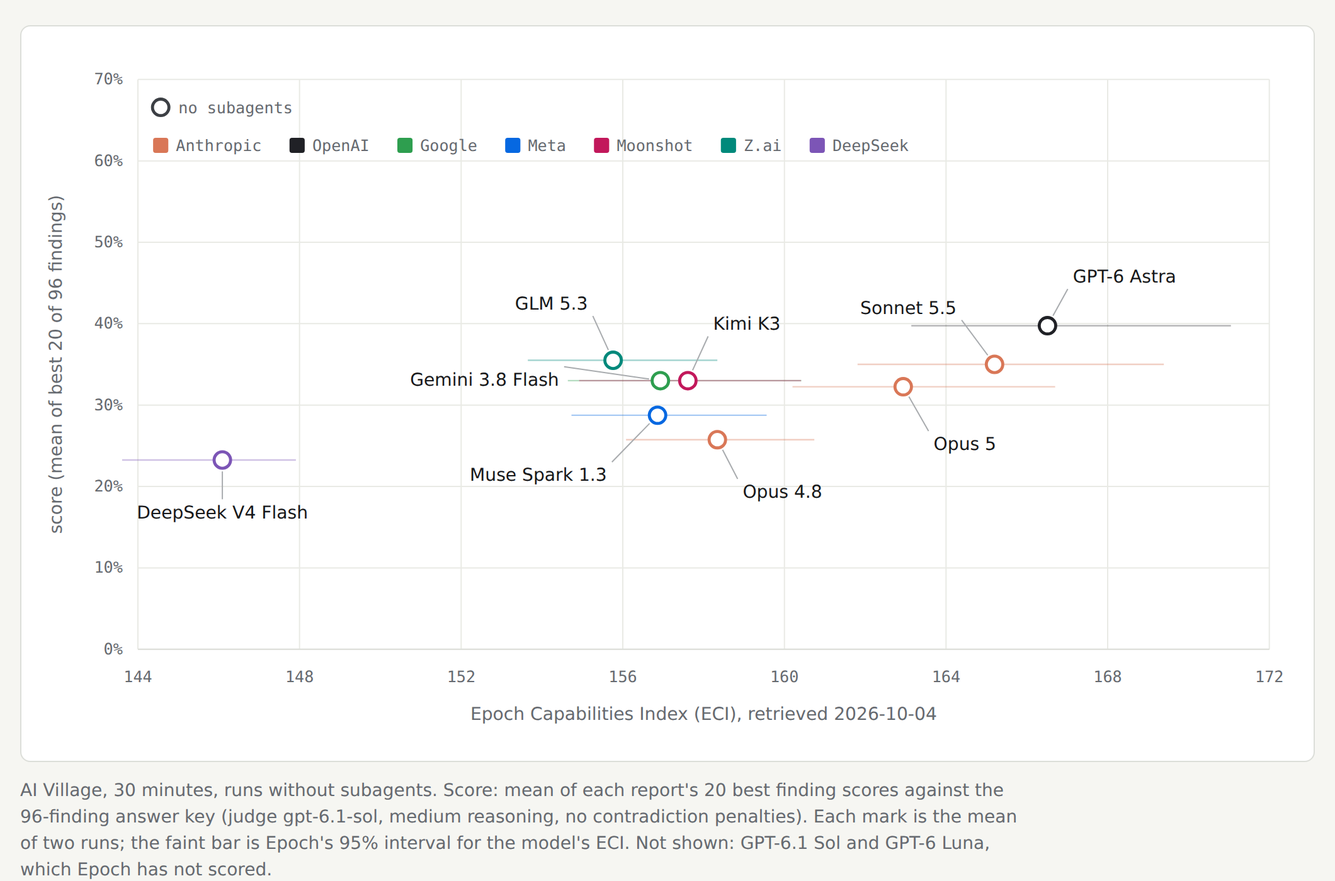
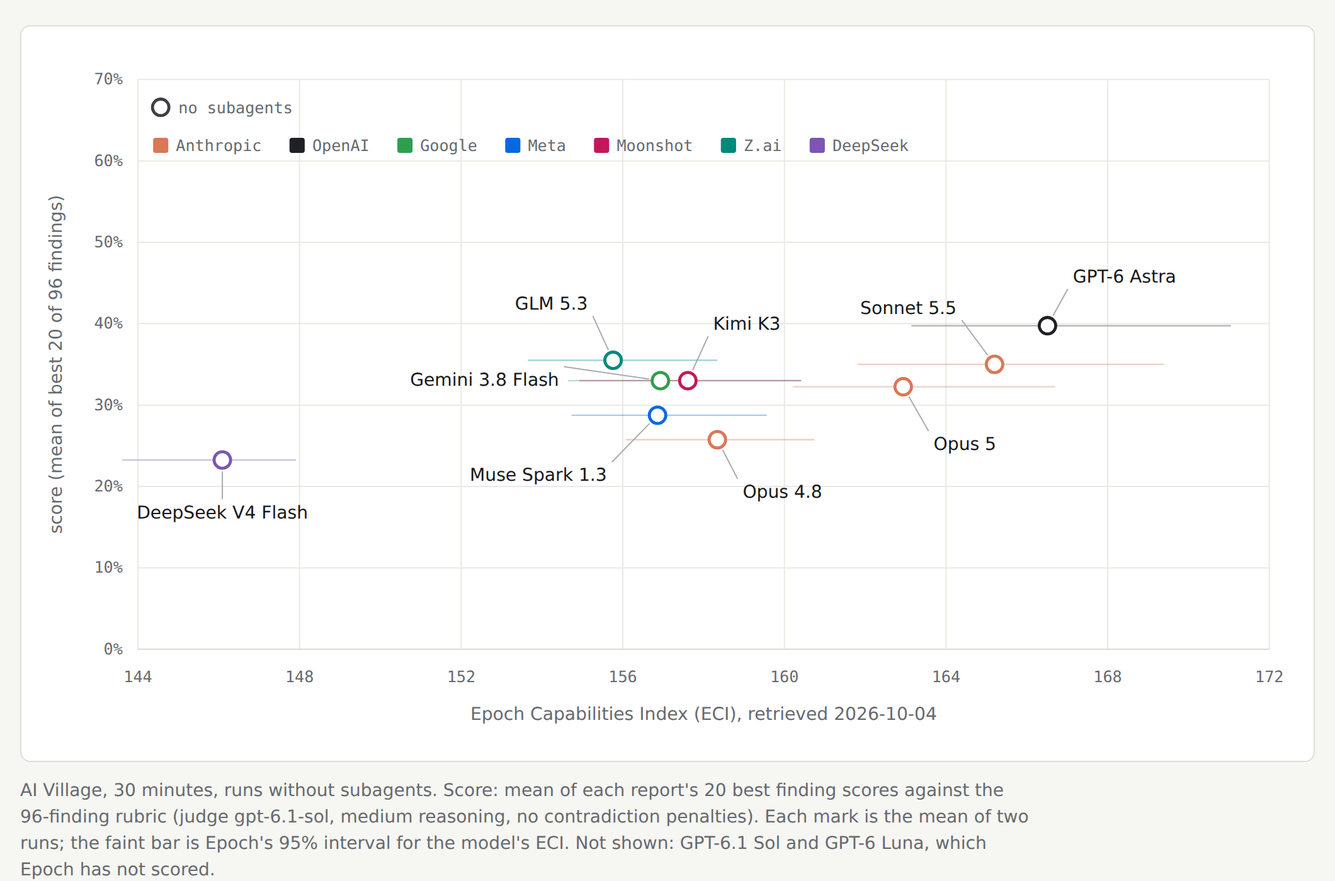
AI Village: call the 96 findings the rubric, as in the write-up

Changed region(s): [[0.0, 0.9214, 0.7783, 1.0]]

diff --git a/benchmark/incidents/aivillage/figures/score_vs_cost.html b/benchmark/incidents/aivillage/figures/score_vs_cost.html
@@ -27,7 +27,7 @@
 <div class="controls"><span>Drag model names to move them.</span><button id="reset" type="button">Reset labels</button><button id="copy" type="button">Copy label positions</button><span id="status" role="status"></span></div>
 <details><summary>Values</summary><div class="tablewrap"><table><thead><tr id="head"></tr></thead><tbody id="rows"></tbody></table></div></details>
 </main>
-<script type="application/json" id="data">{"title": "AI Village Score vs Cost", "aria": "AI Village answer-key score against cost per run, with and without subagents", "caption": "AI Village, 30 minutes. Score: mean of each report's 20 best finding scores against the 96-finding answer key (judge gpt-6.1-sol, medium reasoning, no contradiction penalties). Cost per run at list prices, subagents included. Each mark is the mean of two runs; dashed lines join a model's runs without and with subagents.", "y_label": "score (mean of best 20 of 96 findings)", "x_axis": {"log": true, "min": 0.1, "max": 100, "ticks": [0.1, 0.2, 0.5, 1, 2, 5, 10, 20, 50, 100], "prefix": "$", "format": "${:.2f}", "label": "estimated cost per run, USD at list price (log scale)"}, "models": [{"name": "Muse Spark 1.3", "color": "#0668e1", "points": {"false": {"x": 11.638349999999999, "score": 0.2875, "n": 2, "title": "Muse Spark 1.3, no subagents: $11.64 per run, score 28.7% (mean of 2 runs)"}}, "label": {"sub": "false", "dx": 18, "dy": 4}}, {"name": "Opus 5", "color": "#d97757", "points": {"false": {"x": 11.418199999999999, "score": 0.3225, "n": 2, "title": "Opus 5, no subagents: $11.42 per run, score 32.2% (mean of 2 runs)"}, "true": {"x": 21.0646, "score": 0.45499999999999996, "n": 2, "title": "Opus 5, subagents: $21.06 per run, score 45.5% (mean of 2 runs)"}}, "label": {"sub": "true", "dx": 34, "dy": 34}}, {"name": "Gemini 3.8 Flash", "color": "#2e9e4f", "points": {"false": {"x": 2.09445, "score": 0.33, "n": 2, "title": "Gemini 3.8 Flash, no subagents: $2.09 per run, score 33.0% (mean of 2 runs)"}}, "label": {"sub": "false", "dx": -50, "dy": 54}}, {"name": "GPT-6 Astra", "color": "#202126", "points": {"false": {"x": 13.70735, "score": 0.39749999999999996, "n": 2, "title": "GPT-6 Astra, no subagents: $13.71 per run, score 39.8% (mean of 2 runs)"}, "true": {"x": 58.2787, "score": 0.5675, "n": 2, "title": "GPT-6 Astra, subagents: $58.28 per run, score 56.8% (mean of 2 runs)"}}, "label": {"sub": "true", "dx": -10, "dy": -34}}, {"name": "Kimi K3", "color": "#c2185b", "points": {"false": {"x": 8.0264, "score": 0.32999999999999996, "n": 2, "title": "Kimi K3, no subagents: $8.03 per run, score 33.0% (mean of 2 runs)"}}, "label": {"sub": "false", "dx": -40, "dy": 50}}, {"name": "GPT-6.1 Sol", "color": "#202126", "points": {"false": {"x": 1.8433, "score": 0.395, "n": 2, "title": "GPT-6.1 Sol, no subagents: $1.84 per run, score 39.5% (mean of 2 runs)"}, "true": {"x": 6.542300000000001, "score": 0.5475, "n": 2, "title": "GPT-6.1 Sol, subagents: $6.54 per run, score 54.8% (mean of 2 runs)"}}, "label": {"sub": "true", "dx": -16, "dy": -6}}, {"name": "Opus 4.8", "color": "#d97757", "points": {"false": {"x": 7.9926, "score": 0.2575, "n": 2, "title": "Opus 4.8, no subagents: $7.99 per run, score 25.8% (mean of 2 runs)"}, "true": {"x": 24.7992, "score": 0.1825, "n": 2, "title": "Opus 4.8, subagents: $24.80 per run, score 18.2% (mean of 2 runs)"}}, "label": {"sub": "false", "dx": 0, "dy": 46}}, {"name": "GLM 5.3", "color": "#00897b", "points": {"false": {"x": 4.40515, "score": 0.355, "n": 2, "title": "GLM 5.3, no subagents: $4.41 per run, score 35.5% (mean of 2 runs)"}}, "label": {"sub": "false", "dx": -24, "dy": -46}}, {"name": "DeepSeek V4 Flash", "color": "#7c55b6", "points": {"false": {"x": 0.8161499999999999, "score": 0.2325, "n": 2, "title": "DeepSeek V4 Flash, no subagents: $0.82 per run, score 23.2% (mean of 2 runs)"}}, "label": {"sub": "false", "dx": 0, "dy": 46}}, {"name": "GPT-6 Luna", "color": "#202126", "points": {"false": {"x": 0.14415, "score": 0.255, "n": 2, "title": "GPT-6 Luna, no subagents: $0.14 per run, score 25.5% (mean of 2 runs)"}, "true": {"x": 0.36805, "score": 0.33499999999999996, "n": 2, "title": "GPT-6 Luna, subagents: $0.37 per run, score 33.5% (mean of 2 runs)"}}, "label": {"sub": "false", "dx": 0, "dy": 46}}, {"name": "Sonnet 5.5", "color": "#d97757", "points": {"false": {"x": 5.0225, "score": 0.35, "n": 2, "title": "Sonnet 5.5, no subagents: $5.02 per run, score 35.0% (mean of 2 runs)"}, "true": {"x": 12.36695, "score": 0.4625, "n": 2, "title": "Sonnet 5.5, subagents: $12.37 per run, score 46.2% (mean of 2 runs)"}}, "label": {"sub": "true", "dx": 30, "dy": -30}}], "vendors": [{"name": "Anthropic", "color": "#d97757"}, {"name": "OpenAI", "color": "#202126"}, {"name": "Google", "color": "#2e9e4f"}, {"name": "Meta", "color": "#0668e1"}, {"name": "Moonshot", "color": "#c2185b"}, {"name": "Z.ai", "color": "#00897b"}, {"name": "DeepSeek", "color": "#7c55b6"}], "frontier": [{"x": 0.14415, "score": 0.255, "n": 2, "title": "GPT-6 Luna, no subagents: $0.14 per run, score 25.5% (mean of 2 runs)"}, {"x": 0.36805, "score": 0.33499999999999996, "n": 2, "title": "GPT-6 Luna, subagents: $0.37 per run, score 33.5% (mean of 2 runs)"}, {"x": 1.8433, "score": 0.395, "n": 2, "title": "GPT-6.1 Sol, no subagents: $1.84 per run, score 39.5% (mean of 2 runs)"}, {"x": 6.542300000000001, "score": 0.5475, "n": 2, "title": "GPT-6.1 Sol, subagents: $6.54 per run, score 54.8% (mean of 2 runs)"}, {"x": 58.2787, "score": 0.5675, "n": 2, "title": "GPT-6 Astra, subagents: $58.28 per run, score 56.8% (mean of 2 runs)"}], "label_positions": {}, "labels_file": "score_vs_cost_labels.json", "label_storage_key": "aivillage-score_vs_cost-labels-v1", "table": {"head": ["Model", "Cost, no subagents", "Score, no subagents", "Cost, subagents", "Score, subagents"], "rows": [{"color": "#0668e1", "cells": ["Muse Spark 1.3", "$11.64", "28.7%", "\u2013", "\u2013"]}, {"color": "#d97757", "cells": ["Opus 5", "$11.42", "32.2%", "$21.06", "45.5%"]}, {"color": "#2e9e4f", "cells": ["Gemini 3.8 Flash", "$2.09", "33.0%", "\u2013", "\u2013"]}, {"color": "#202126", "cells": ["GPT-6 Astra", "$13.71", "39.8%", "$58.28", "56.8%"]}, {"color": "#c2185b", "cells": ["Kimi K3", "$8.03", "33.0%", "\u2013", "\u2013"]}, {"color": "#202126", "cells": ["GPT-6.1 Sol", "$1.84", "39.5%", "$6.54", "54.8%"]}, {"color": "#d97757", "cells": ["Opus 4.8", "$7.99", "25.8%", "$24.80", "18.2%"]}, {"color": "#00897b", "cells": ["GLM 5.3", "$4.41", "35.5%", "\u2013", "\u2013"]}, {"color": "#7c55b6", "cells": ["DeepSeek V4 Flash", "$0.82", "23.2%", "\u2013", "\u2013"]}, {"color": "#202126", "cells": ["GPT-6 Luna", "$0.14", "25.5%", "$0.37", "33.5%"]}, {"color": "#d97757", "cells": ["Sonnet 5.5", "$5.02", "35.0%", "$12.37", "46.2%"]}]}}</script>
+<script type="application/json" id="data">{"title": "AI Village Score vs Cost", "aria": "AI Village score against cost per run, with and without subagents", "caption": "AI Village, 30 minutes. Score: mean of each report's 20 best finding scores against the 96-finding rubric (judge gpt-6.1-sol, medium reasoning, no contradiction penalties). Cost per run at list prices, subagents included. Each mark is the mean of two runs; dashed lines join a model's runs without and with subagents.", "y_label": "score (mean of best 20 of 96 findings)", "x_axis": {"log": true, "min": 0.1, "max": 100, "ticks": [0.1, 0.2, 0.5, 1, 2, 5, 10, 20, 50, 100], "prefix": "$", "format": "${:.2f}", "label": "estimated cost per run, USD at list price (log scale)"}, "models": [{"name": "Muse Spark 1.3", "color": "#0668e1", "points": {"false": {"x": 11.638349999999999, "score": 0.2875, "n": 2, "title": "Muse Spark 1.3, no subagents: $11.64 per run, score 28.7% (mean of 2 runs)"}}, "label": {"sub": "false", "dx": 18, "dy": 4}}, {"name": "Opus 5", "color": "#d97757", "points": {"false": {"x": 11.418199999999999, "score": 0.3225, "n": 2, "title": "Opus 5, no subagents: $11.42 per run, score 32.2% (mean of 2 runs)"}, "true": {"x": 21.0646, "score": 0.45499999999999996, "n": 2, "title": "Opus 5, subagents: $21.06 per run, score 45.5% (mean of 2 runs)"}}, "label": {"sub": "true", "dx": 34, "dy": 34}}, {"name": "Gemini 3.8 Flash", "color": "#2e9e4f", "points": {"false": {"x": 2.09445, "score": 0.33, "n": 2, "title": "Gemini 3.8 Flash, no subagents: $2.09 per run, score 33.0% (mean of 2 runs)"}}, "label": {"sub": "false", "dx": -50, "dy": 54}}, {"name": "GPT-6 Astra", "color": "#202126", "points": {"false": {"x": 13.70735, "score": 0.39749999999999996, "n": 2, "title": "GPT-6 Astra, no subagents: $13.71 per run, score 39.8% (mean of 2 runs)"}, "true": {"x": 58.2787, "score": 0.5675, "n": 2, "title": "GPT-6 Astra, subagents: $58.28 per run, score 56.8% (mean of 2 runs)"}}, "label": {"sub": "true", "dx": -10, "dy": -34}}, {"name": "Kimi K3", "color": "#c2185b", "points": {"false": {"x": 8.0264, "score": 0.32999999999999996, "n": 2, "title": "Kimi K3, no subagents: $8.03 per run, score 33.0% (mean of 2 runs)"}}, "label": {"sub": "false", "dx": -40, "dy": 50}}, {"name": "GPT-6.1 Sol", "color": "#202126", "points": {"false": {"x": 1.8433, "score": 0.395, "n": 2, "title": "GPT-6.1 Sol, no subagents: $1.84 per run, score 39.5% (mean of 2 runs)"}, "true": {"x": 6.542300000000001, "score": 0.5475, "n": 2, "title": "GPT-6.1 Sol, subagents: $6.54 per run, score 54.8% (mean of 2 runs)"}}, "label": {"sub": "true", "dx": -16, "dy": -6}}, {"name": "Opus 4.8", "color": "#d97757", "points": {"false": {"x": 7.9926, "score": 0.2575, "n": 2, "title": "Opus 4.8, no subagents: $7.99 per run, score 25.8% (mean of 2 runs)"}, "true": {"x": 24.7992, "score": 0.1825, "n": 2, "title": "Opus 4.8, subagents: $24.80 per run, score 18.2% (mean of 2 runs)"}}, "label": {"sub": "false", "dx": 0, "dy": 46}}, {"name": "GLM 5.3", "color": "#00897b", "points": {"false": {"x": 4.40515, "score": 0.355, "n": 2, "title": "GLM 5.3, no subagents: $4.41 per run, score 35.5% (mean of 2 runs)"}}, "label": {"sub": "false", "dx": -24, "dy": -46}}, {"name": "DeepSeek V4 Flash", "color": "#7c55b6", "points": {"false": {"x": 0.8161499999999999, "score": 0.2325, "n": 2, "title": "DeepSeek V4 Flash, no subagents: $0.82 per run, score 23.2% (mean of 2 runs)"}}, "label": {"sub": "false", "dx": 0, "dy": 46}}, {"name": "GPT-6 Luna", "color": "#202126", "points": {"false": {"x": 0.14415, "score": 0.255, "n": 2, "title": "GPT-6 Luna, no subagents: $0.14 per run, score 25.5% (mean of 2 runs)"}, "true": {"x": 0.36805, "score": 0.33499999999999996, "n": 2, "title": "GPT-6 Luna, subagents: $0.37 per run, score 33.5% (mean of 2 runs)"}}, "label": {"sub": "false", "dx": 0, "dy": 46}}, {"name": "Sonnet 5.5", "color": "#d97757", "points": {"false": {"x": 5.0225, "score": 0.35, "n": 2, "title": "Sonnet 5.5, no subagents: $5.02 per run, score 35.0% (mean of 2 runs)"}, "true": {"x": 12.36695, "score": 0.4625, "n": 2, "title": "Sonnet 5.5, subagents: $12.37 per run, score 46.2% (mean of 2 runs)"}}, "label": {"sub": "true", "dx": 30, "dy": -30}}], "vendors": [{"name": "Anthropic", "color": "#d97757"}, {"name": "OpenAI", "color": "#202126"}, {"name": "Google", "color": "#2e9e4f"}, {"name": "Meta", "color": "#0668e1"}, {"name": "Moonshot", "color": "#c2185b"}, {"name": "Z.ai", "color": "#00897b"}, {"name": "DeepSeek", "color": "#7c55b6"}], "frontier": [{"x": 0.14415, "score": 0.255, "n": 2, "title": "GPT-6 Luna, no subagents: $0.14 per run, score 25.5% (mean of 2 runs)"}, {"x": 0.36805, "score": 0.33499999999999996, "n": 2, "title": "GPT-6 Luna, subagents: $0.37 per run, score 33.5% (mean of 2 runs)"}, {"x": 1.8433, "score": 0.395, "n": 2, "title": "GPT-6.1 Sol, no subagents: $1.84 per run, score 39.5% (mean of 2 runs)"}, {"x": 6.542300000000001, "score": 0.5475, "n": 2, "title": "GPT-6.1 Sol, subagents: $6.54 per run, score 54.8% (mean of 2 runs)"}, {"x": 58.2787, "score": 0.5675, "n": 2, "title": "GPT-6 Astra, subagents: $58.28 per run, score 56.8% (mean of 2 runs)"}], "label_positions": {}, "labels_file": "score_vs_cost_labels.json", "label_storage_key": "aivillage-score_vs_cost-labels-v1", "table": {"head": ["Model", "Cost, no subagents", "Score, no subagents", "Cost, subagents", "Score, subagents"], "rows": [{"color": "#0668e1", "cells": ["Muse Spark 1.3", "$11.64", "28.7%", "\u2013", "\u2013"]}, {"color": "#d97757", "cells": ["Opus 5", "$11.42", "32.2%", "$21.06", "45.5%"]}, {"color": "#2e9e4f", "cells": ["Gemini 3.8 Flash", "$2.09", "33.0%", "\u2013", "\u2013"]}, {"color": "#202126", "cells": ["GPT-6 Astra", "$13.71", "39.8%", "$58.28", "56.8%"]}, {"color": "#c2185b", "cells": ["Kimi K3", "$8.03", "33.0%", "\u2013", "\u2013"]}, {"color": "#202126", "cells": ["GPT-6.1 Sol", "$1.84", "39.5%", "$6.54", "54.8%"]}, {"color": "#d97757", "cells": ["Opus 4.8", "$7.99", "25.8%", "$24.80", "18.2%"]}, {"color": "#00897b", "cells": ["GLM 5.3", "$4.41", "35.5%", "\u2013", "\u2013"]}, {"color": "#7c55b6", "cells": ["DeepSeek V4 Flash", "$0.82", "23.2%", "\u2013", "\u2013"]}, {"color": "#202126", "cells": ["GPT-6 Luna", "$0.14", "25.5%", "$0.37", "33.5%"]}, {"color": "#d97757", "cells": ["Sonnet 5.5", "$5.02", "35.0%", "$12.37", "46.2%"]}]}}</script>
 <script>
 const D=JSON.parse(document.getElementById('data').textContent), svg=document.getElementById('chart'), N='http://www.w3.org/2000/svg';
 document.getElementById('caption').textContent=D.caption;svg.setAttribute('aria-label',D.aria);

diff --git a/benchmark/incidents/aivillage/figures/score_vs_eci.html b/benchmark/incidents/aivillage/figures/score_vs_eci.html
@@ -27,7 +27,7 @@
 <div class="controls"><span>Drag model names to move them.</span><button id="reset" type="button">Reset labels</button><button id="copy" type="button">Copy label positions</button><span id="status" role="status"></span></div>
 <details><summary>Values</summary><div class="tablewrap"><table><thead><tr id="head"></tr></thead><tbody id="rows"></tbody></table></div></details>
 </main>
-<script type="application/json" id="data">{"title": "AI Village Score vs ECI", "aria": "AI Village answer-key score against Epoch Capabilities Index, runs without subagents", "caption": "AI Village, 30 minutes, runs without subagents. Score: mean of each report's 20 best finding scores against the 96-finding answer key (judge gpt-6.1-sol, medium reasoning, no contradiction penalties). Each mark is the mean of two runs; the faint bar is Epoch's 95% interval for the model's ECI. Not shown: GPT-6.1 Sol and GPT-6 Luna, which Epoch has not scored.", "y_label": "score (mean of best 20 of 96 findings)", "x_axis": {"log": false, "min": 144, "max": 172, "ticks": [144, 148, 152, 156, 160, 164, 168, 172], "prefix": "", "format": "{:.1f}", "label": "Epoch Capabilities Index (ECI), retrieved 2026-10-04"}, "models": [{"name": "Muse Spark 1.3", "color": "#0668e1", "points": {"false": {"x": 156.86, "ci": [154.73, 159.56], "score": 0.2875, "n": 2, "title": "Muse Spark 1.3: ECI 156.9 (154.7 to 159.6), score 28.7% (mean of 2 runs)"}}, "label": {"sub": "false", "dx": -40, "dy": 52}}, {"name": "Opus 5", "color": "#d97757", "points": {"false": {"x": 162.94, "ci": [160.2, 166.7], "score": 0.3225, "n": 2, "title": "Opus 5: ECI 162.9 (160.2 to 166.7), score 32.2% (mean of 2 runs)"}}, "label": {"sub": "false", "dx": 24, "dy": 50}}, {"name": "Gemini 3.8 Flash", "color": "#2e9e4f", "points": {"false": {"x": 156.93, "ci": [154.64, 160.42], "score": 0.33, "n": 2, "title": "Gemini 3.8 Flash: ECI 156.9 (154.6 to 160.4), score 33.0% (mean of 2 runs)"}}, "label": {"sub": "false", "dx": -80, "dy": 4}}, {"name": "GPT-6 Astra", "color": "#202126", "points": {"false": {"x": 166.51, "ci": [163.14, 171.05], "score": 0.39749999999999996, "n": 2, "title": "GPT-6 Astra: ECI 166.5 (163.1 to 171.1), score 39.8% (mean of 2 runs)"}}, "label": {"sub": "false", "dx": 20, "dy": -34}}, {"name": "Kimi K3", "color": "#c2185b", "points": {"false": {"x": 157.61, "ci": [154.92, 160.41], "score": 0.32999999999999996, "n": 2, "title": "Kimi K3: ECI 157.6 (154.9 to 160.4), score 33.0% (mean of 2 runs)"}}, "label": {"sub": "false", "dx": 20, "dy": -40}}, {"name": "Opus 4.8", "color": "#d97757", "points": {"false": {"x": 158.34, "ci": [156.08, 160.74], "score": 0.2575, "n": 2, "title": "Opus 4.8: ECI 158.3 (156.1 to 160.7), score 25.8% (mean of 2 runs)"}}, "label": {"sub": "false", "dx": 20, "dy": 46}}, {"name": "GLM 5.3", "color": "#00897b", "points": {"false": {"x": 155.76, "ci": [153.65, 158.34], "score": 0.355, "n": 2, "title": "GLM 5.3: ECI 155.8 (153.7 to 158.3), score 35.5% (mean of 2 runs)"}}, "label": {"sub": "false", "dx": -20, "dy": -40}}, {"name": "DeepSeek V4 Flash", "color": "#7c55b6", "points": {"false": {"x": 146.09, "ci": [143.61, 147.91], "score": 0.2325, "n": 2, "title": "DeepSeek V4 Flash: ECI 146.1 (143.6 to 147.9), score 23.2% (mean of 2 runs)"}}, "label": {"sub": "false", "dx": 0, "dy": 46}}, {"name": "Sonnet 5.5", "color": "#d97757", "points": {"false": {"x": 165.2, "ci": [161.81, 169.39], "score": 0.35, "n": 2, "title": "Sonnet 5.5: ECI 165.2 (161.8 to 169.4), score 35.0% (mean of 2 runs)"}}, "label": {"sub": "false", "dx": -30, "dy": -40}}], "vendors": [{"name": "Anthropic", "color": "#d97757"}, {"name": "OpenAI", "color": "#202126"}, {"name": "Google", "color": "#2e9e4f"}, {"name": "Meta", "color": "#0668e1"}, {"name": "Moonshot", "color": "#c2185b"}, {"name": "Z.ai", "color": "#00897b"}, {"name": "DeepSeek", "color": "#7c55b6"}], "frontier": [], "label_positions": {}, "labels_file": "score_vs_eci_labels.json", "label_storage_key": "aivillage-score_vs_eci-labels-v1", "table": {"head": ["Model", "ECI, no subagents", "Score, no subagents"], "rows": [{"color": "#0668e1", "cells": ["Muse Spark 1.3", "156.9", "28.7%"]}, {"color": "#d97757", "cells": ["Opus 5", "162.9", "32.2%"]}, {"color": "#2e9e4f", "cells": ["Gemini 3.8 Flash", "156.9", "33.0%"]}, {"color": "#202126", "cells": ["GPT-6 Astra", "166.5", "39.8%"]}, {"color": "#c2185b", "cells": ["Kimi K3", "157.6", "33.0%"]}, {"color": "#d97757", "cells": ["Opus 4.8", "158.3", "25.8%"]}, {"color": "#00897b", "cells": ["GLM 5.3", "155.8", "35.5%"]}, {"color": "#7c55b6", "cells": ["DeepSeek V4 Flash", "146.1", "23.2%"]}, {"color": "#d97757", "cells": ["Sonnet 5.5", "165.2", "35.0%"]}]}}</script>
+<script type="application/json" id="data">{"title": "AI Village Score vs ECI", "aria": "AI Village score against Epoch Capabilities Index, runs without subagents", "caption": "AI Village, 30 minutes, runs without subagents. Score: mean of each report's 20 best finding scores against the 96-finding rubric (judge gpt-6.1-sol, medium reasoning, no contradiction penalties). Each mark is the mean of two runs; the faint bar is Epoch's 95% interval for the model's ECI. Not shown: GPT-6.1 Sol and GPT-6 Luna, which Epoch has not scored.", "y_label": "score (mean of best 20 of 96 findings)", "x_axis": {"log": false, "min": 144, "max": 172, "ticks": [144, 148, 152, 156, 160, 164, 168, 172], "prefix": "", "format": "{:.1f}", "label": "Epoch Capabilities Index (ECI), retrieved 2026-10-04"}, "models": [{"name": "Muse Spark 1.3", "color": "#0668e1", "points": {"false": {"x": 156.86, "ci": [154.73, 159.56], "score": 0.2875, "n": 2, "title": "Muse Spark 1.3: ECI 156.9 (154.7 to 159.6), score 28.7% (mean of 2 runs)"}}, "label": {"sub": "false", "dx": -40, "dy": 52}}, {"name": "Opus 5", "color": "#d97757", "points": {"false": {"x": 162.94, "ci": [160.2, 166.7], "score": 0.3225, "n": 2, "title": "Opus 5: ECI 162.9 (160.2 to 166.7), score 32.2% (mean of 2 runs)"}}, "label": {"sub": "false", "dx": 24, "dy": 50}}, {"name": "Gemini 3.8 Flash", "color": "#2e9e4f", "points": {"false": {"x": 156.93, "ci": [154.64, 160.42], "score": 0.33, "n": 2, "title": "Gemini 3.8 Flash: ECI 156.9 (154.6 to 160.4), score 33.0% (mean of 2 runs)"}}, "label": {"sub": "false", "dx": -80, "dy": 4}}, {"name": "GPT-6 Astra", "color": "#202126", "points": {"false": {"x": 166.51, "ci": [163.14, 171.05], "score": 0.39749999999999996, "n": 2, "title": "GPT-6 Astra: ECI 166.5 (163.1 to 171.1), score 39.8% (mean of 2 runs)"}}, "label": {"sub": "false", "dx": 20, "dy": -34}}, {"name": "Kimi K3", "color": "#c2185b", "points": {"false": {"x": 157.61, "ci": [154.92, 160.41], "score": 0.32999999999999996, "n": 2, "title": "Kimi K3: ECI 157.6 (154.9 to 160.4), score 33.0% (mean of 2 runs)"}}, "label": {"sub": "false", "dx": 20, "dy": -40}}, {"name": "Opus 4.8", "color": "#d97757", "points": {"false": {"x": 158.34, "ci": [156.08, 160.74], "score": 0.2575, "n": 2, "title": "Opus 4.8: ECI 158.3 (156.1 to 160.7), score 25.8% (mean of 2 runs)"}}, "label": {"sub": "false", "dx": 20, "dy": 46}}, {"name": "GLM 5.3", "color": "#00897b", "points": {"false": {"x": 155.76, "ci": [153.65, 158.34], "score": 0.355, "n": 2, "title": "GLM 5.3: ECI 155.8 (153.7 to 158.3), score 35.5% (mean of 2 runs)"}}, "label": {"sub": "false", "dx": -20, "dy": -40}}, {"name": "DeepSeek V4 Flash", "color": "#7c55b6", "points": {"false": {"x": 146.09, "ci": [143.61, 147.91], "score": 0.2325, "n": 2, "title": "DeepSeek V4 Flash: ECI 146.1 (143.6 to 147.9), score 23.2% (mean of 2 runs)"}}, "label": {"sub": "false", "dx": 0, "dy": 46}}, {"name": "Sonnet 5.5", "color": "#d97757", "points": {"false": {"x": 165.2, "ci": [161.81, 169.39], "score": 0.35, "n": 2, "title": "Sonnet 5.5: ECI 165.2 (161.8 to 169.4), score 35.0% (mean of 2 runs)"}}, "label": {"sub": "false", "dx": -30, "dy": -40}}], "vendors": [{"name": "Anthropic", "color": "#d97757"}, {"name": "OpenAI", "color": "#202126"}, {"name": "Google", "color": "#2e9e4f"}, {"name": "Meta", "color": "#0668e1"}, {"name": "Moonshot", "color": "#c2185b"}, {"name": "Z.ai", "color": "#00897b"}, {"name": "DeepSeek", "color": "#7c55b6"}], "frontier": [], "label_positions": {}, "labels_file": "score_vs_eci_labels.json", "label_storage_key": "aivillage-score_vs_eci-labels-v1", "table": {"head": ["Model", "ECI, no subagents", "Score, no subagents"], "rows": [{"color": "#0668e1", "cells": ["Muse Spark 1.3", "156.9", "28.7%"]}, {"color": "#d97757", "cells": ["Opus 5", "162.9", "32.2%"]}, {"color": "#2e9e4f", "cells": ["Gemini 3.8 Flash", "156.9", "33.0%"]}, {"color": "#202126", "cells": ["GPT-6 Astra", "166.5", "39.8%"]}, {"color": "#c2185b", "cells": ["Kimi K3", "157.6", "33.0%"]}, {"color": "#d97757", "cells": ["Opus 4.8", "158.3", "25.8%"]}, {"color": "#00897b", "cells": ["GLM 5.3", "155.8", "35.5%"]}, {"color": "#7c55b6", "cells": ["DeepSeek V4 Flash", "146.1", "23.2%"]}, {"color": "#d97757", "cells": ["Sonnet 5.5", "165.2", "35.0%"]}]}}</script>
 <script>
 const D=JSON.parse(document.getElementById('data').textContent), svg=document.getElementById('chart'), N='http://www.w3.org/2000/svg';
 document.getElementById('caption').textContent=D.caption;svg.setAttribute('aria-label',D.aria);

diff --git a/viewers/build_aivillage_figures.py b/viewers/build_aivillage_figures.py
@@ -1,5 +1,5 @@
 #!/usr/bin/env python3
-"""Plot AI Village answer-key score against cost per run and against Epoch's ECI.
+"""Plot AI Village score against cost per run and against Epoch's ECI.
 
 The cost figure shows runs with and without subagents; the ECI figure shows
 runs without subagents only, for models Epoch has scored (eci_snapshot.json).
@@ -198,7 +198,7 @@ def main() -> None:
     n_findings = len(grades["reports"][0]["scores"])
     judge = f"{grades.get('model')}, {grades.get('effort')} reasoning"
     score = (f"Score: mean of each report's {TOP_K} best finding scores against the "
-             f"{n_findings}-finding answer key (judge {judge}, no contradiction penalties).")
+             f"{n_findings}-finding rubric (judge {judge}, no contradiction penalties).")
     y_label = f"score (mean of best {TOP_K} of {n_findings} findings)"
     gs = groups(rows)
     args.out.mkdir(parents=True, exist_ok=True)
@@ -209,7 +209,7 @@ def main() -> None:
         x_axis={"log": True, "min": 0.1, "max": 100, "ticks": [0.1, 0.2, 0.5, 1, 2, 5, 10, 20, 50, 100],
                 "prefix": "$", "format": "${:.2f}",
                 "label": "estimated cost per run, USD at list price (log scale)"},
-        title="AI Village Score vs Cost", aria="AI Village answer-key score against cost per run, with and without subagents",
+        title="AI Village Score vs Cost", aria="AI Village score against cost per run, with and without subagents",
         caption=(f"AI Village, 30 minutes. {score} Cost per run at list prices, subagents included. "
                  "Each mark is the mean of two runs; dashed lines join a model's runs without and with subagents."),
         y_label=y_label, x_head="Cost",
@@ -225,7 +225,7 @@ def main() -> None:
         gs, xs, ECI_LABELS,
         x_axis={"log": False, "min": 144, "max": 172, "ticks": list(range(144, 173, 4)), "prefix": "",
                 "format": "{:.1f}", "label": f"Epoch Capabilities Index (ECI), retrieved {eci['retrieved']}"},
-        title="AI Village Score vs ECI", aria="AI Village answer-key score against Epoch Capabilities Index, runs without subagents",
+        title="AI Village Score vs ECI", aria="AI Village score against Epoch Capabilities Index, runs without subagents",
         caption=(f"AI Village, 30 minutes, runs without subagents. {score} Each mark is the mean of two runs; "
                  "the faint bar is Epoch's 95% interval for the model's ECI. "
                  f"Not shown: {' and '.join(missing)}, which Epoch has not scored."),

diff --git a/viewers/build_aivillage_scores_figure.py b/viewers/build_aivillage_scores_figure.py
@@ -37,7 +37,7 @@ def main(src: str, dst: str) -> None:
     out = [f'<svg xmlns="http://www.w3.org/2000/svg" viewBox="0 0 {width} {height}" font-family="Liberation Sans, Arial, sans-serif">',
            f'<rect width="{width}" height="{height}" fill="{SURFACE}"/>',
            f'<text x="24" y="34" font-size="19" font-weight="600" fill="{INK}">Five of the six models that could use subagents scored higher with them</text>',
-           f'<text x="24" y="58" font-size="13.5" fill="{MUTED}">Mean of each report’s 20 best scores against the 96-finding key; one dot per report, bar = mean of two</text>']
+           f'<text x="24" y="58" font-size="13.5" fill="{MUTED}">Mean of each report’s 20 best scores against the 96-finding rubric; one dot per report, bar = mean of two</text>']
     for v in range(0, xmax + 1, 10):
         out.append(f'<line x1="{x(v)}" y1="{top - 10}" x2="{x(v)}" y2="{top + row_h * len(order)}" stroke="{GRID}"/>')
         out.append(f'<text x="{x(v)}" y="{top + row_h * len(order) + 20}" font-size="12" fill="{MUTED}" text-anchor="middle">{v}%</text>')

diff --git a/README.md b/README.md
@@ -3,18 +3,18 @@
 **TL;DR**
 
 - **Task.** An AI agent (a "slopvestigator") gets the full logs of the [AI Village](https://theaidigest.org/village), where frontier agents share a chat, run their own computers and pursue goals (April 2025 to September 2026). With 30 minutes and no internet, it writes a report on the 20 most important things that went wrong.
-- **Answer key.** 96 failures that people wrote about in AI Digest's posts, on X and on Discord, each checked against the logs.
+- **Rubric.** 96 findings: failures that people wrote about in AI Digest's posts, on X and on Discord, each checked against the logs.
 - **Result.** Reports score 16% to 68% (mean 36%). GPT-6 Astra and GPT-6.1 Sol with subagents score best (57% and 55%). Subagents raised the score for five of the six models that could use them.
 
-![The pipeline: people wrote about the Village and we turned their write-ups into 96 findings; an agent investigates the same logs and writes a report; a judge scores which findings the report covers.](benchmark/incidents/aivillage/figures/pipeline.png)
+![The pipeline: people wrote about the Village and we turned their write-ups into a rubric of 96 findings; an agent investigates the same logs and writes a report; a judge scores which findings the report covers.](benchmark/incidents/aivillage/figures/pipeline.png)
 
 ## How it works
 
-1. **Answer key.** A model extracted failures from 18 Substack posts, 157 X posts and Discord threads. We merged duplicates, had an agent check each one against the logs, and kept the 96 the logs support ([`findings/`](benchmark/incidents/aivillage/findings/)).
+1. **Rubric.** A model extracted failures from 18 Substack posts, 157 X posts and Discord threads. We merged duplicates, had an agent check each one against the logs, and kept the 96 the logs support ([`findings/`](benchmark/incidents/aivillage/findings/)).
 2. **Investigation.** The agent runs in a sandbox with the logs read-only and no internet, through Claude Code, Codex, or a minimal tool loop for OpenRouter models. Claude and Codex runs are done with and without subagents. The prompt is [`sandbox/prompts/aivillage-v12.txt`](sandbox/prompts/aivillage-v12.txt).
-3. **Grading.** A judge model (GPT-6.1 Sol) scores each of the 96 key findings from 0 to 1 for how fully the report states it ([`judge-prompt-v8.txt`](benchmark/incidents/aivillage/judge-prompt-v8.txt)).
+3. **Grading.** A judge model (GPT-6.1 Sol) scores each of the 96 rubric findings from 0 to 1 for how fully the report states it ([`judge-prompt-v8.txt`](benchmark/incidents/aivillage/judge-prompt-v8.txt)).
 
-**The score.** A report's score is the mean of its 20 best finding scores. The report lists 20 findings, so fully stating 20 different key findings scores 100%, and the 76 it had no room for don't count against it. Averaging all 96 instead ranks the reports almost identically; that number is in [`results/`](benchmark/incidents/aivillage/results/) as "coverage".
+**The score.** A report's score is the mean of its 20 best finding scores. The report lists 20 findings, so fully stating 20 different rubric findings scores 100%, and the 76 it had no room for don't count against it. Averaging all 96 instead ranks the reports almost identically; that number is in [`results/`](benchmark/incidents/aivillage/results/) as "coverage".
 
 ## Results
 
@@ -33,7 +33,7 @@ Cost per run is at list prices and includes subagents. GPT-6.1 Sol with subagent
 
 Runs without subagents against the Epoch Capabilities Index (ECI). GPT-6.1 Sol and GPT-6 Luna have no ECI yet.
 
-**Limits.** Two reports per model and condition, and they often differ as much as models do. The judge is also one of the tested models. The score only measures how much of the key a report covers; checks for false claims and for real failures the key lacks are not built yet.
+**Limits.** Two reports per model and condition, and they often differ as much as models do. The judge is also one of the tested models. The score only measures how much of the rubric a report covers; checks for false claims and for real failures the rubric lacks are not built yet.
 
 ## Run it
 
